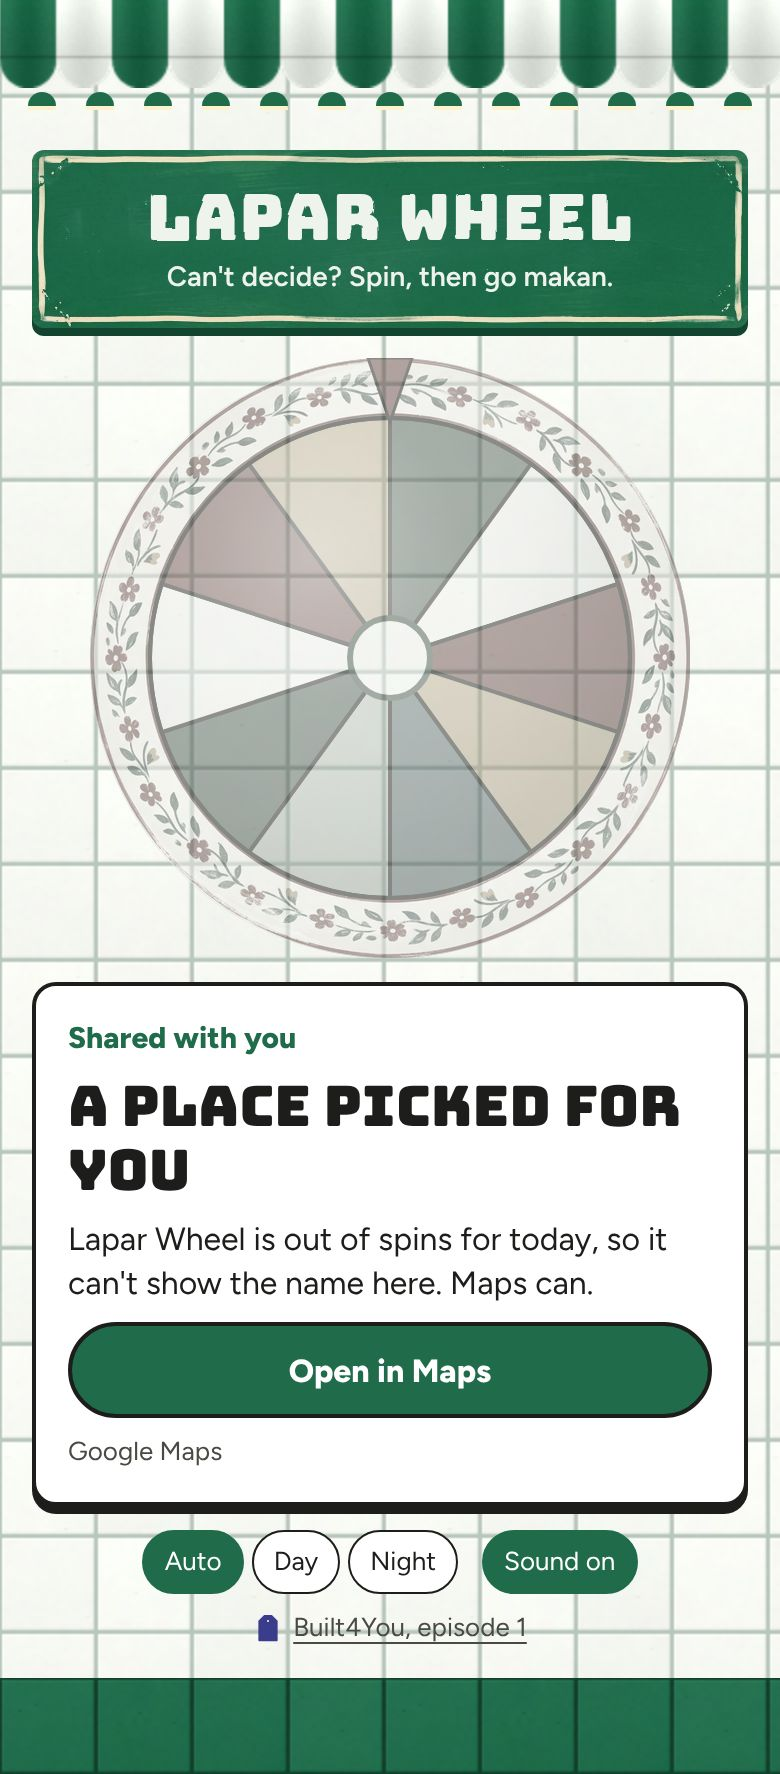
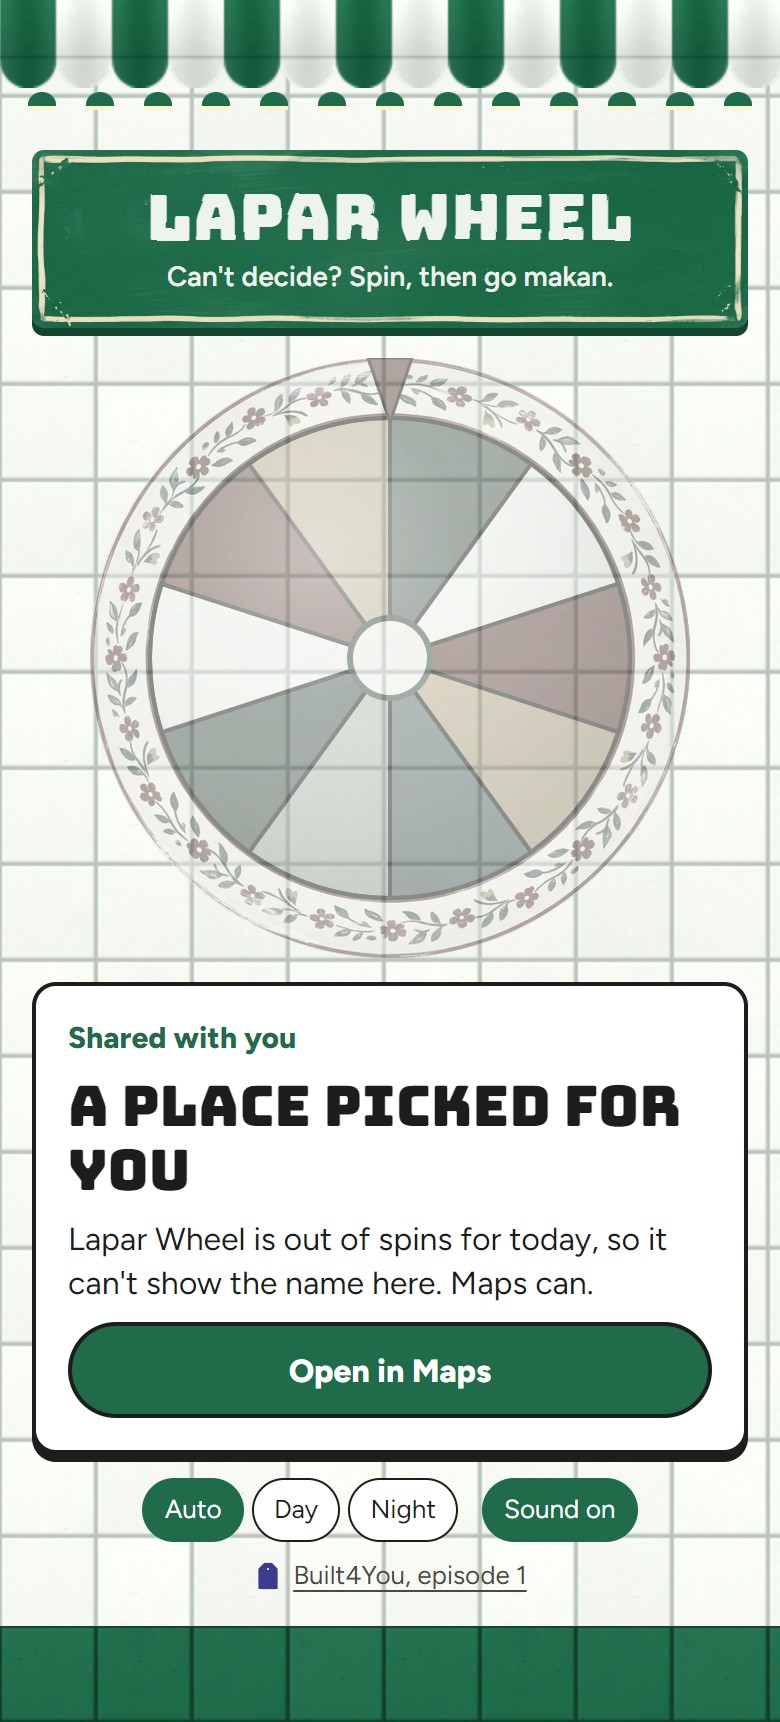
Spec the share links, fix the shared-cap mock and add the loading screen

diff --git a/docs/redesign/reference.html b/docs/redesign/reference.html
@@ -122,7 +122,7 @@ body{margin:0;background:#8a8a8a;font-family:Figtree,system-ui,sans-serif}
 const STATES = {
   start: "Start", result: "Result", sheet: "Filter sheet", "empty-2": "Nothing open, 2 km", "empty-10": "Nothing open, 10 km",
   "cap": "Out of spins (everyone)", "ip-cap": "Out of spins (you)", "rate": "Slow down", refused: "Location refused",
-  shared: "Opened from a share link", "shared-gone": "Shared place gone", "shared-cap": "Share link, out of spins",
+  shared: "Opened from a share link", "shared-loading": "Share link, checking", "shared-gone": "Shared place gone", "shared-cap": "Share link, out of spins",
 };
 const q = new URLSearchParams(location.search);
 const state = STATES[q.get("s")] ? q.get("s") : "start";
@@ -241,6 +241,12 @@ switch (state) {
       <p class="attrib">Google Maps</p>
     </section>`;
     break;
+  case "shared-loading":
+    middle = `<section class="card" role="status" aria-busy="true">
+      <p class="kicker">Shared with you</p>
+      <h2 class="place">Finding the place…</h2>
+    </section>`;
+    break;
   case "shared-gone":
     faded = true;
     middle = notice({ pic: capPic, head: "Not available", body: "This place isn't available anymore. Spin for somewhere that's open.", buttons: ["Spin your own"] });
@@ -252,7 +258,6 @@ switch (state) {
       <h2 class="place">A place picked for you</h2>
       <p class="meta">Lapar Wheel is out of spins for today, so it can't show the name here. Maps can.</p>
       <a class="btn maps" href="#">Open in Maps</a>
-      <p class="attrib">Google Maps</p>
     </section>`;
     break;
   case "sheet":

diff --git a/docs/redesign.md b/docs/redesign.md
@@ -4,7 +4,7 @@ Approved 2026-11-04. Lapar Wheel gets its own look, with a thin Built4You wrappe
 
 ## What stays the same
 
-Everything behavioural in `CLAUDE.md` still applies: the API, limits, copy for errors, privacy, attribution, `pickIndex`, pick first then animate, reduced motion, storage keys prefixed `lapar-wheel:`. Halal mode, share links and an "All of KK" radius aren't built yet, so the prototype's halal switch, Share button and All of KK chip are left out until they are.
+Everything behavioural in `CLAUDE.md` still applies: the API, limits, copy for errors, privacy, attribution, `pickIndex`, pick first then animate, reduced motion, storage keys prefixed `lapar-wheel:`. Halal mode and an "All of KK" radius aren't built yet, so the prototype's halal switch and All of KK chip are left out until they are.
 
 ## Looks
 
@@ -84,7 +84,7 @@ One centred column, at most 390px wide, on a full-width ground. Top to bottom:
 4. **Wheel**, 300px, or the column width if smaller.
 5. **Controls** before a result: a summary button, the Spin button (60px tall), and a hint "Or swipe the wheel" (only once swipe exists).
    - The summary reads like "Near you, within 2 km, any cuisine, rated 4.0 and up", with "In [area]" instead of "Near you" in area mode. It ends with an underlined "Change" and opens the filter sheet.
-6. **Result card** replaces the controls once the wheel lands: kicker "Go makan at", the name, "[distance] away, open now.", a full-width Open in Maps button, then Spin again and Filters side by side, then "Google Maps" in small print (attribution, same container).
+6. **Result card** replaces the controls once the wheel lands: kicker "Go makan at", the name, "[distance] away, open now.", a full-width Open in Maps button, then Spin again, Filters and Share (see Share links), then "Google Maps" in small print (attribution, same container).
 7. **Notices** replace the controls when there's no pick (see below).
 8. **Footer**, centred: the Look switch (Auto / Day / Night) with the Sound toggle beside it (Sound arrives in PR 2), and under them the "Built4You, episode 1" credit with the tag mark. In the day look the footer stays above the green tile band.
 
@@ -164,6 +164,20 @@ Everything here respects `prefers-reduced-motion` and a hidden page: no animatio
 - **Notices.** The wheel fades back, and out of spins at night the stall's lights go off, over 400 ms (see Notices).
 
 Nothing else moves: no page-load animation, no fade-up on scroll.
+
+## Share links
+
+- Result card buttons: Spin again, Filters, Share, in one wrapping row (the notice-button rule: each grows to fill, labels never wrap).
+- Share: `navigator.share({ title: "Lapar Wheel", text: "The wheel picked [name].", url })` where it exists. Otherwise copy the url, and the button reads "Link copied" for 2 s, announced politely. If copying fails, show the link in a read-only, selectable field under the buttons. A cancelled share sheet is not an error.
+- The url is `https://built4you.jasperntc.dev/lapar-wheel?p=<placeId>`, with nothing else in it. Never a location, name or filter.
+- Opening a link: read `p` on the client. A valid ID matches `/^[A-Za-z0-9_-]{16,256}$/`. Anything else is dropped from the url (`history.replaceState`) and the normal start screen shows, with no error and no throw. A valid ID makes exactly one call to `/api/place/:id?check=status`. Never ask for location, never spin.
+  - While it's in flight (`shared-loading`): the shared card with the kicker "Shared with you" and "Finding the place…" in the name's place (Bungee, so the card doesn't jump when the name arrives), no buttons, `aria-busy` on the card, the wheel normal.
+  - `available` true → `shared`: kicker "Shared with you", the name, "Picked on Lapar Wheel. Check the hours in Maps before you go.", Open in Maps (`mapsUrl(name, id)`), "Spin your own", "Google Maps".
+  - `available` false → `shared-gone`: paper notice with the day shutter or night stall, headline "Not available", body "This place isn't available anymore. Spin for somewhere that's open.", button "Spin your own".
+  - `daily_cap` or `ip_daily_cap` → `shared-cap`: kicker "Shared with you", headline "A place picked for you", "Lapar Wheel is out of spins for today, so it can't show the name here. Maps can.", Open in Maps as `https://www.google.com/maps/search/?api=1&query=restaurant&query_place_id=<id>`. No Spin your own and no "Google Maps" line, since no Google data shows. The wheel fades, and at night the stall closes, as in the cap notices.
+  - `rate_limited` or any other error → paper notice with the existing message for that error and "Try again", which repeats the same single call.
+- "Spin your own" removes `p` from the url (`history.replaceState`) and shows the normal start screen. It doesn't spin by itself.
+- The page's og image stays `og-night.jpg` for every link, and the canonical url is the page without `p`.
 
 ## Share preview and icons
 

diff --git a/REVIEW_LOG.md b/REVIEW_LOG.md
@@ -4,6 +4,7 @@ Mistakes caught during review, mine and the AI's. Newest first.
 
 | Date | Where | Mistake | Caught by | Fix |
 |---|---|---|---|---|
+| 2026-11-05 | `docs/redesign/reference.html` shared-cap | The mock showed a "Google Maps" line on the out-of-spins share card, where no Google data appears | Claude Code, comparing the mock with the spec | Line removed and the shared-cap screenshots re-taken |
 | 2026-11-04 | `docs/redesign.md` Notices | Notice buttons were equal columns, so a longer label ("Try location again" beside "Spin") wrapped onto two lines inside a pill | Claude Code, refused-notice screenshots | Buttons grow to fit, labels never wrap, and two that don't fit stack |
 | 2026-11-04 | `docs/redesign.md` Notices, `components/NearMe.tsx` | The redesign spec put a bordered 160px picture inside a bordered panel, with one line of copy and the Spin button left under it, so the empty and out-of-spins notices looked broken, read like errors and invited spins that couldn't work | Me, reviewing PR 1 on my phone | Notices became a taped-up paper notice with a headline, the filters or reset time, and their own next-step buttons; the Spin button hides while one shows |
 | 2026-11-04 | Redesign kit (`public/`, repo root) | Two overlapping zips from the design session: the first one's extras (`public/icons/`, `public/og-day.jpg`, `ASSETS.md`) were unzipped into the repo alongside the kit and would have shipped from `public/` | Claude Code, planning the redesign PR | Deleted them; the kit is the only source, and docs/redesign.md is the one asset list |

diff --git a/docs/redesign/README.md b/docs/redesign/README.md
@@ -7,6 +7,6 @@ How Lapar Wheel should look, as of 2026-11-04.
 - `screens/` holds a screenshot of each screen at 390px wide (2x), named `<look>-<screen>.jpg`. Screens taller than 844px are shown at full height: the page scrolls there.
 - `../redesign-prototype.dc.html` is the earlier clickable prototype's source. Use it only for the spin code (`startSpin`, the swipe handlers, `tick`). Its footer and notices are out of date.
 
-Screens: `start`, `result`, `sheet`, `empty-2` (nothing open at 2 km), `empty-10` (nothing open at 10 km with filters), `cap` (out of spins for everyone), `ip-cap` (out of spins for you), `rate` (slow down), `refused` (location refused), `shared` (opened from a share link), `shared-gone` (the shared place isn't available anymore), `shared-cap` (a share link opened when Lapar Wheel is out of spins).
+Screens: `start`, `result`, `sheet`, `empty-2` (nothing open at 2 km), `empty-10` (nothing open at 10 km with filters), `cap` (out of spins for everyone), `ip-cap` (out of spins for you), `rate` (slow down), `refused` (location refused), `shared` (opened from a share link), `shared-loading` (checking a share link), `shared-gone` (the shared place isn't available anymore), `shared-cap` (a share link opened when Lapar Wheel is out of spins).
 
 The Sound toggle and the "Or swipe the wheel" hint arrive in PR 2. The night `cap` and `ip-cap` screens show the stall closed: roof bulbs and neon off, wheel dimmed.
